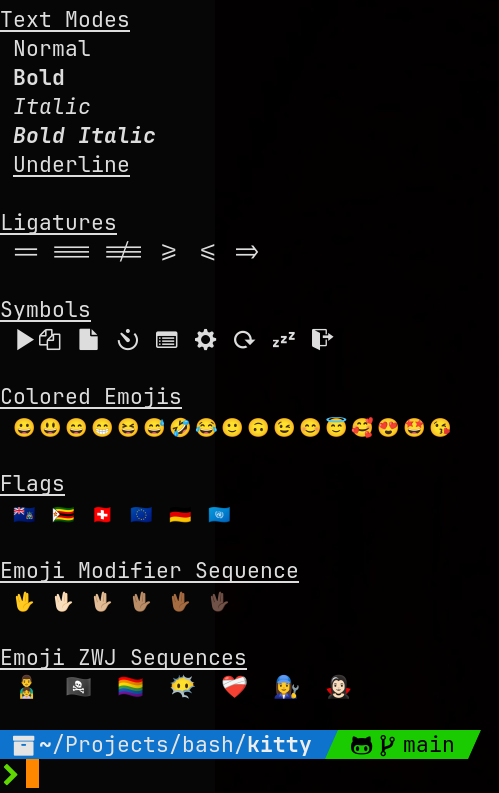
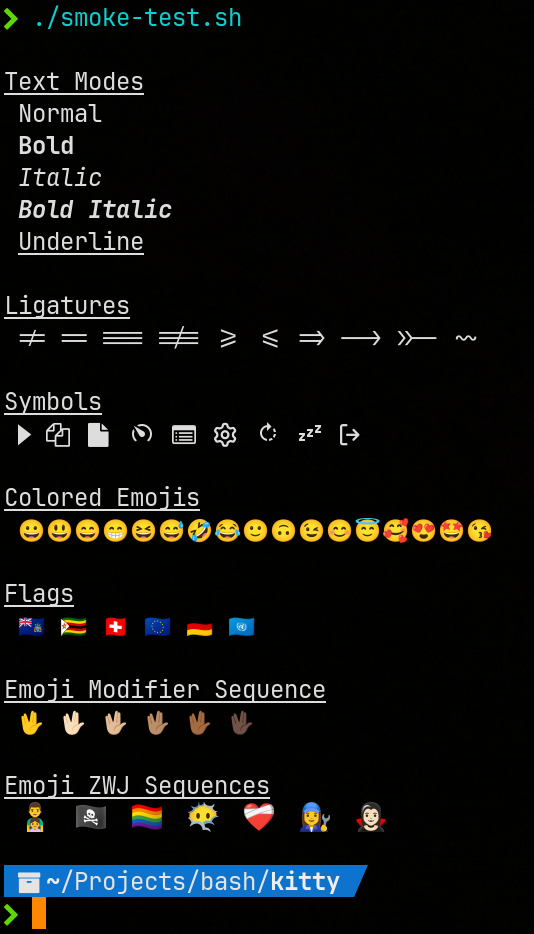
updated to Nerd Font v3.0.0

diff --git a/README.md b/README.md
@@ -15,9 +15,9 @@ bold_italic_font auto
 
 Installed and for kitty useable fonts can be listed with ```kitty list-fonts```
 
-No need to install patched fonts, just install the font containingthe symbols.
+No need to install patched fonts, just install the font containing the [symbols only](https://github.com/ryanoasis/nerd-fonts/releases/download/v3.0.0/NerdFontsSymbolsOnly.zip) and keep your non-patched fonts.
 
-Generates ```symbol_map``` lines for ```kitty.conf``` out of the ```test-fonts.sh``` from Nerd Fonts to provide nerd symbols for a kitty terminal (https://github.com/kovidgoyal/kitty) with non-patched fonts.
+Generates ```symbol_map``` lines for ```kitty.conf``` out of the ```test-fonts.sh``` from Nerd Fonts to provide nerd symbols for a [kitty terminal](https://github.com/kovidgoyal/kitty) with non-patched fonts.
 
 
 ```
